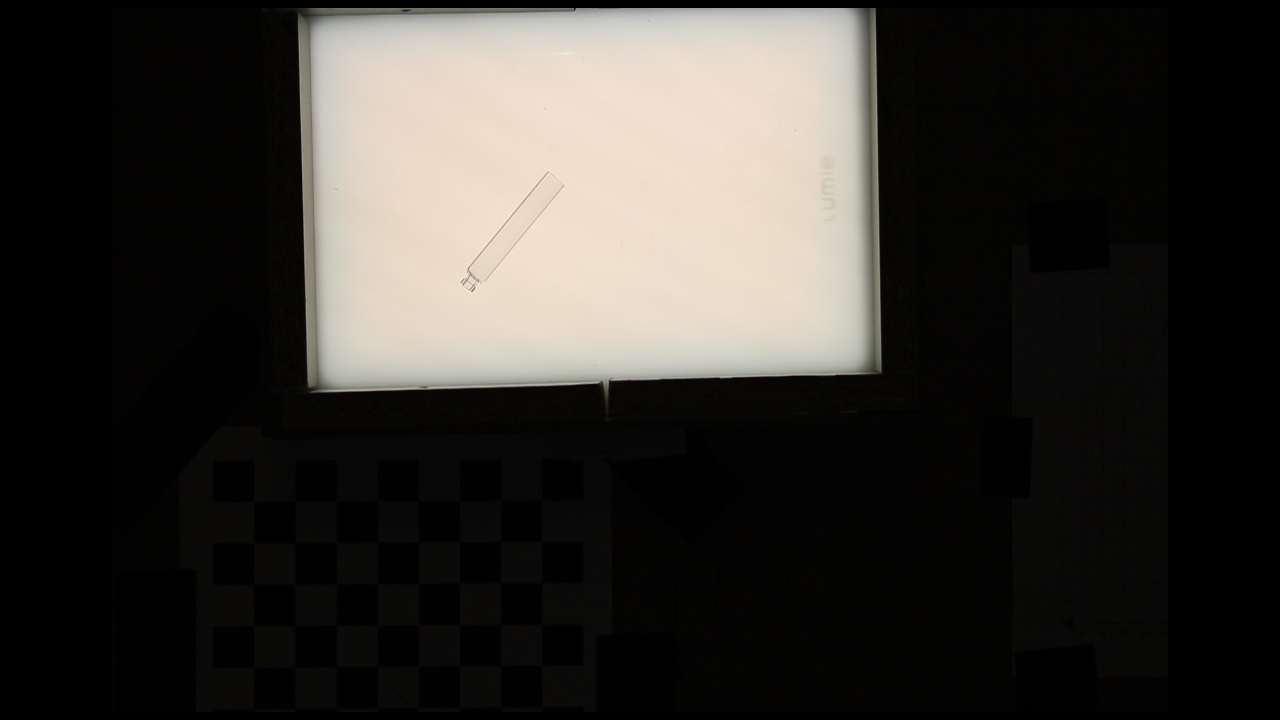
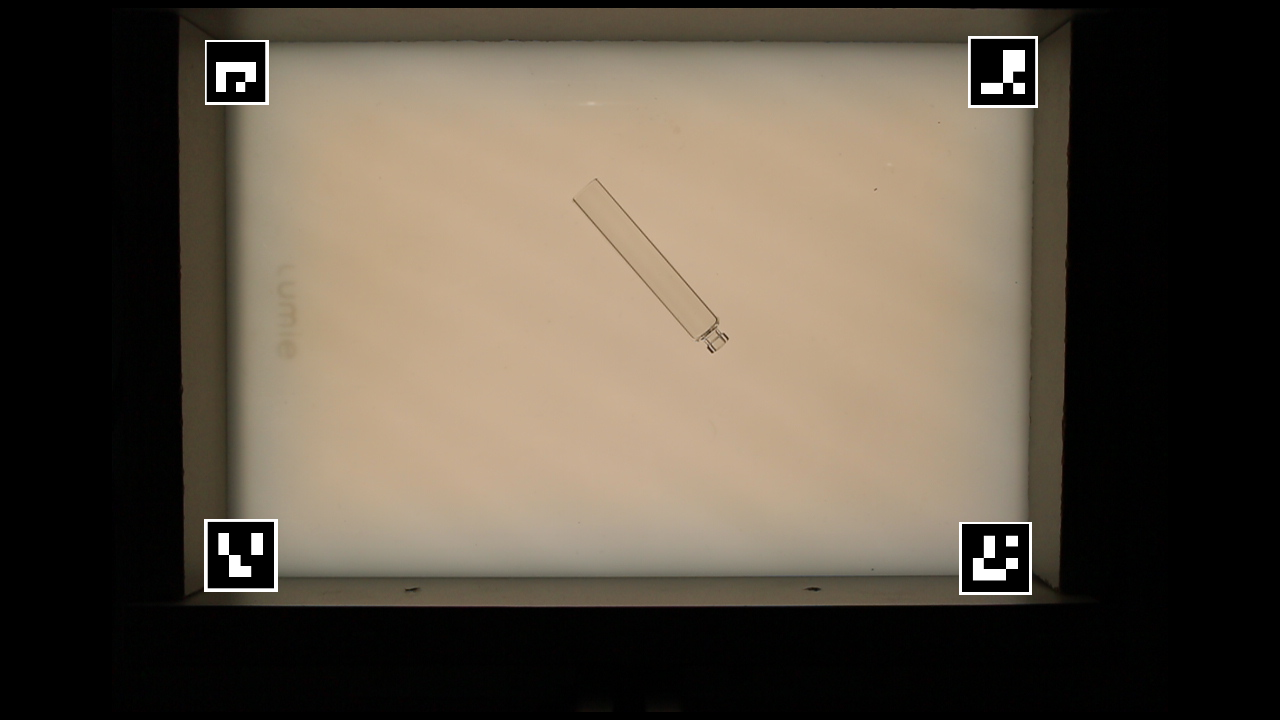
Added ArUco cropping

diff --git a/GlassSegmentV1/CalibrationLib.py b/GlassSegmentV1/CalibrationLib.py
@@ -1,4 +1,5 @@
 import cv2
+import numpy as np
 from cv2 import aruco
 
 
@@ -9,19 +10,70 @@ def markerCalib(img):
     
     dict = cv2.aruco.Dictionary_get(aruco.DICT_4X4_50)
     arucoParams = cv2.aruco.DetectorParameters_create()
-    corners,ids,refect = cv2.aruco.detectMarkers(img,dict,parameters=arucoParams)
-    imgMarkers = cv2.aruco.drawDetectedMarkers(img.copy(),corners,ids)
+    markers,ids,reject = cv2.aruco.detectMarkers(img,dict,parameters=arucoParams)
+    imgMarkers = cv2.aruco.drawDetectedMarkers(img.copy(),markers,ids)
+    
+    markers = np.array(markers, dtype = np.int32)
+    corners = np.empty([4,1,2], dtype = np.int32)
+    for cnt in range(0,4):
+        ID = ids[cnt] - 1
+        if ID == 0:
+            corners[0] = markers[0, 0, 0, :]
+        if ID == 1:
+            corners[1] = markers[1, 0, 1, :]
+        if ID == 2:
+            corners[2] = markers[2, 0, 2, :]
+        if ID == 3:
+            corners[3] = markers[3, 0, 3, :]
     
     cv2.namedWindow("markers")
-    cv2.imshow(imgMarkers,"markers")
+    cv2.imshow("markers",imgMarkers)
     
     return corners,ids
 
 def markerCrop(img,corners):
+    #https://jdhao.github.io/2019/02/23/crop_rotated_rectangle_opencv/
     #? We might need to acsociate the ids with a specifik corner
     #? to know what placement in the 'corners' array is belonging to what corner.
-    roi = cv2.selectROI(img)
-    imgCropped = img[int(roi[corners[1]]):int(roi[corners[1]]+roi[corners[3]]),int(roi[corners[0]]):int(roi[corners[0]]+corners[2])]
-    cv2.imshow("Cropped image",imgCropped)
+
+    corners1 = np.array([
+            [[64, 49]],
+            [[122, 11]],
+            [[391, 326]],
+            [[308, 373]]
+        ])
+    print("shape of cnt: {}".format(corners.shape))
+    rect = cv2.minAreaRect(corners)
+    print("rect: {}".format(rect))
+
+    # the order of the box points: bottom left, top left, top right,
+    # bottom right
+    box = cv2.boxPoints(rect)
+    box = np.int0(box)
+
+    print("bounding box: {}".format(box))
+    #cv2.drawContours(img, [box], 0, (0, 0, 255), 2)
+
+    # get width and height of the detected rectangle
+    width = int(rect[1][0])
+    height = int(rect[1][1])
+
+    src_pts = box.astype("float32")
+    # coordinate of the points in box points after the rectangle has been
+    # straightened
+    dst_pts = np.array([[0, height-1],
+                        [0, 0],
+                        [width-1, 0],
+                        [width-1, height-1]], dtype="float32")
+
+    # the perspective transformation matrix
+    M = cv2.getPerspectiveTransform(src_pts, dst_pts)
+
+    # directly warp the rotated rectangle to get the straightened rectangle
+    warped = cv2.warpPerspective(img, M, (width, height))
+
+    # cv2.imwrite("crop_img.jpg", warped)
+    cv2.imshow("warppp", warped)
+    cv2.waitKey(0)
         
-    return imgCropped
+    return warped

diff --git a/GlassSegmentV1/GlassSegmentV1.py b/GlassSegmentV1/GlassSegmentV1.py
@@ -7,9 +7,8 @@ from cv2 import aruco
 import LineSearchLib as ls
 import PreprocessingLib as prep
 import RobotLib as rl
-#import CalibrationLib as cb
+import CalibrationLib as cb
 import numpy as np
-from scipy import ndimage
 # TODO: Fix line merge. Der sker en fejl ved billede opencv_frame_1
 # TODO: Lav movement filer om således at vi har et 'init' call og kan kalde de andre filer med argumenter for position.
 #*********** GLOBAL PARAMETERS **************
@@ -60,7 +59,7 @@ while True:
         cv2.namedWindow("Image")
         ret, img = cam.read()
         if not ret or img.shape != (720, 1280, 3):
-            img = cv2.imread('./images/opencv_frame_6.png')
+            img = cv2.imread('./images/opencv_frame_6_marked.png')
             offlineFlag = True
             cam.release()
         print("Press key to start, ESC to exit")
@@ -73,7 +72,9 @@ while True:
 
     if state == "sourceimg":
         if statemsg == False:
-            print("Press key to process image, ESC to exit")
+            print("Press c to calibrate")
+            print("Press other to process image")
+            print("Press ESC to exit")
             statemsg = True
         if not offlineFlag:
             ret, img = cam.read()
@@ -81,6 +82,11 @@ while True:
         k = cv2.waitKey(5)
         if k%256 == 27:
             exitFunc()
+        if k%256 == 99:
+            corners, ids = cb.markerCalib(img)
+            cb.markerCrop(img, corners)
+            print("Starting calibration")
+            cv2.waitKey(0)
         elif k != -1:
             cv2.imwrite('unproc.png', img)
             img_binary = prep.PrepImg(img)
